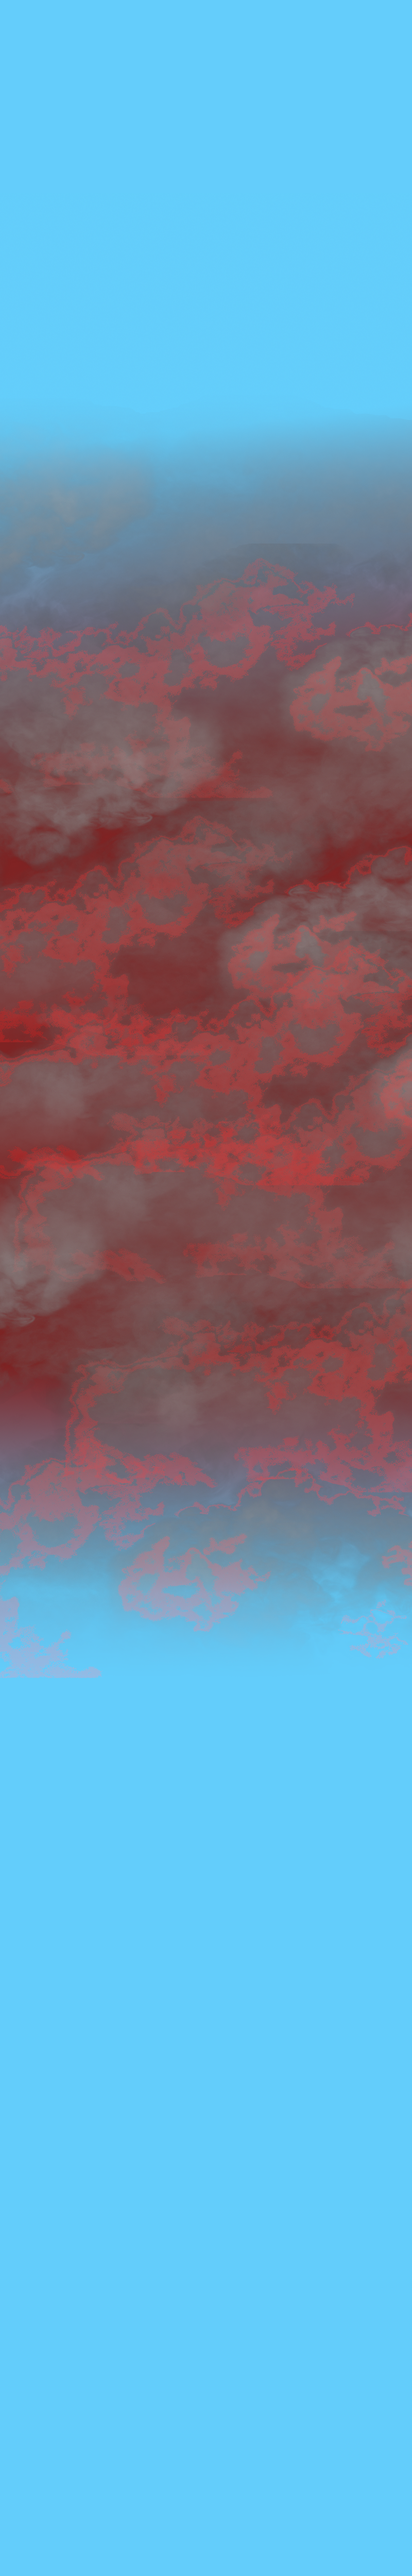
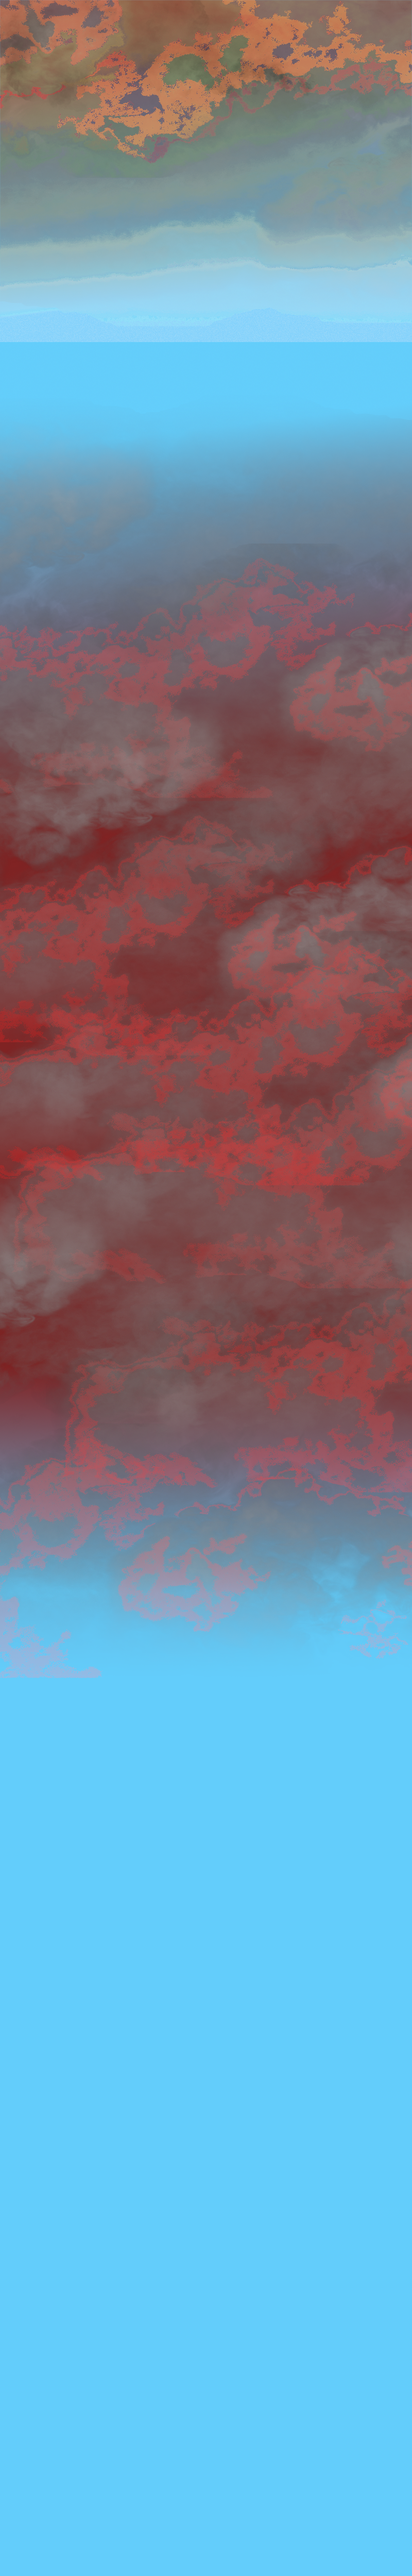
Cambios esteticos

Changed region(s): [[0.0, 0.0, 1.0, 0.156]]

diff --git a/js/nivelUno.js b/js/nivelUno.js
@@ -15,9 +15,14 @@ var empezarContadorGanado = false;
 var tiempoBala = 0;
 var lado = 0;
 var vidaMonstruo = 2;
+var contadorPantallas = 0;
+var muerte = false;
+var pantallaActivada = false;
+var tiempoPortal = 0
 
+var nombrePantallas = ['muerteUno', 'muerteDos', 'muerteTres', 'muerteCuatro', 'muerteCinco']
 var nombreObjetos = ['espadaUnFilo', 'espadaDosFilos', 'flecha', 'hacha', 'lanza', 'martillo', 'tridente']
-
+var escogido = null;
 
 var escenaUno={ 
 preload:function(){
@@ -41,6 +46,7 @@ preload:function(){
 
     //Lluvia
     game.load.image('colisionLluvia','assets/colisionLluvia.png');
+
     //Objetos lanzables
     game.load.image('espadaUnFilo','assets/objetosLluvia/espadaUnFilo.png');
     game.load.image('espadaDosFilos','assets/objetosLluvia/espadaDosFilos.png');
@@ -49,6 +55,13 @@ preload:function(){
     game.load.image('lanza','assets/objetosLluvia/lanza.png');
     game.load.image('martillo','assets/objetosLluvia/martillo.png');
     game.load.image('tridente','assets/objetosLluvia/tridente.png');
+
+    //Pantallas Muerte
+    game.load.image('muerteUno','assets/imagenesMuerte/derrotaUno.png');
+    game.load.image('muerteDos','assets/imagenesMuerte/derrotaDos.png');
+    game.load.image('muerteTres','assets/imagenesMuerte/derrotaTres.png');
+    game.load.image('muerteCuatro','assets/imagenesMuerte/derrotaCuatro.png');
+    game.load.image('muerteCinco','assets/imagenesMuerte/derrotaCinco.png');
 },  
 
 create:function(){
@@ -205,6 +218,8 @@ this.cofre.animations.add('cerrado',[0],10,true);
 this.cofre.animations.add('abierto',[1],10,true);
 this.cofre.animations.play('cerrado')
 
+this.pantallas = game.add.group()
+
 game.camera.follow(this.personaUno)
 },
 
@@ -233,12 +248,13 @@ if(this.time.now > contador && colisionLluvia == true && lluviaTerminada == fals
     }
 }
 
-if(tiempoLluvia == 300){
+if(tiempoLluvia >= 1500){
     lluviaTerminada = true
     this.portalDos.alpha = 1
+    tiempoPortal += 1
 }
 
-if(lluviaTerminada == true){
+if(lluviaTerminada == true && tiempoPortal > 100){
     this.game.physics.arcade.overlap(this.personaUno, this.portalDos, function(personaUno){
         personaUno.body.y = 560
         personaUno.body.x = 256
@@ -270,6 +286,7 @@ this.game.physics.arcade.collide(this.personaUno, this.lluvia, function(personaU
     lluvia.kill()
     personaUno.body.x = posicionInicioX
     personaUno.body.y = posicionInicioY
+    muerte = true
 })
 
 this.game.physics.arcade.collide(this.monstruo, this.balas, function(monstruo, balas){
@@ -295,6 +312,7 @@ this.game.physics.arcade.collide(this.personaUno,this.movil, function() {
 this.game.physics.arcade.collide(this.personaUno, this.monstruo, function(personaUno, lluvia){
     personaUno.body.x = posicionInicioX
     personaUno.body.y = posicionInicioY
+    muerte = true
 })
 
 //Portal
@@ -386,7 +404,21 @@ if (this.personaUno.body.velocity.x > 0) {
     this.personaUno.animations.play('reposo');
 }
 
-//console.log(saltoUno)
+//Pantallas Muerte
+if(muerte == true){
+    muerte = false
+    contadorPantallas = 0;
+    pantallaActivada = true
+    numeroPantalla = Math.floor((Math.random() * (6 - 0)) + 0)
+    pantalla = this.pantallas.create(0, 4400, nombrePantallas[numeroPantalla])
+    console.log('Entra')
+}
+
+if(pantallaActivada == true){
+    contadorPantallas += 1
+}
+
+if(contadorPantallas == 400){pantalla.kill()}
 }   
 };
 
